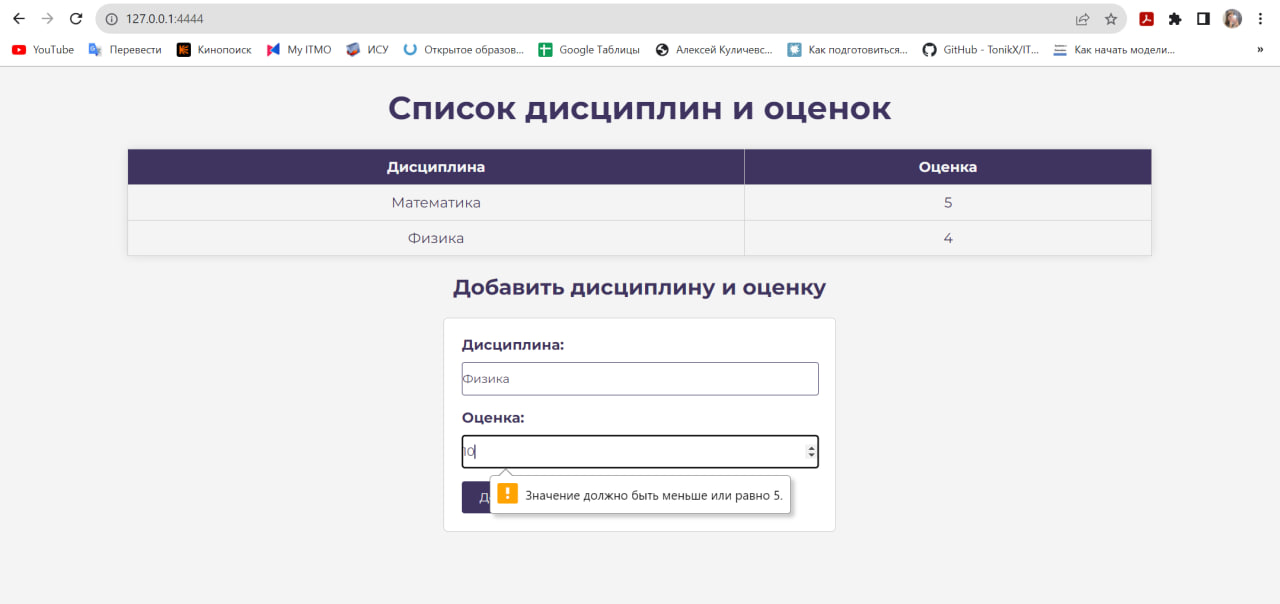
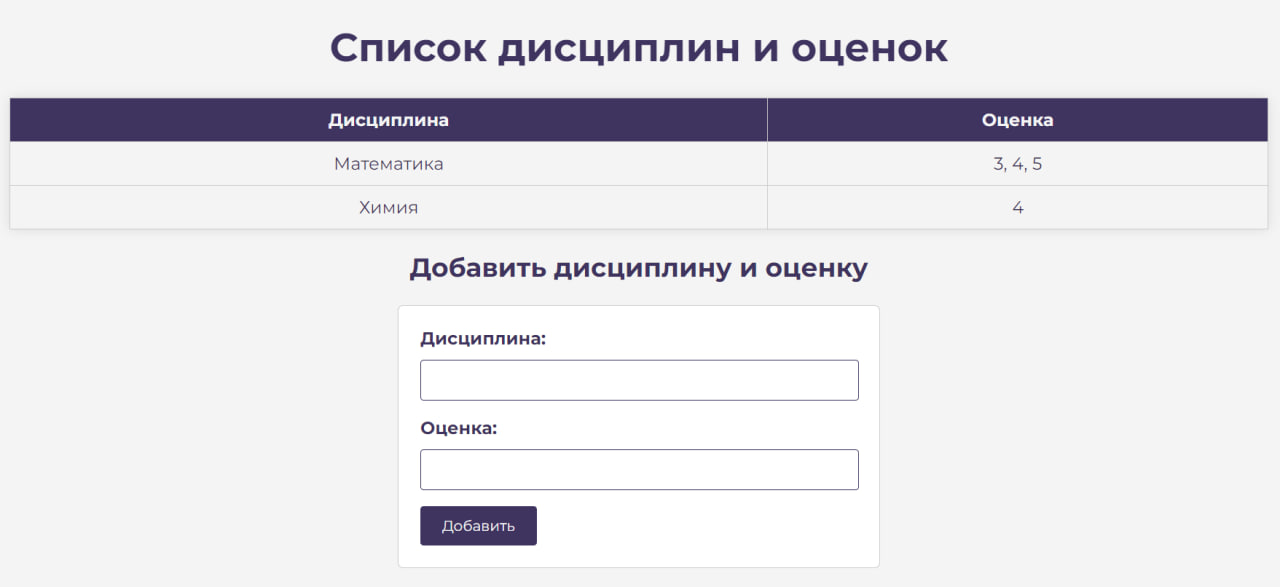
fix: inserting grades

diff --git a/students/k33421/Afonina_Natalia/Lab_1/Task_5/index.html b/students/k33421/Afonina_Natalia/Lab_1/Task_5/index.html
@@ -121,13 +121,30 @@
                 return;
             }
 
-            // Add the discipline and grade to the table
+                // Check if the discipline already exists in the table
+            let existingRow = null;
             const table = document.getElementById('grades-table');
-            const newRow = table.insertRow(-1);
-            const disciplineCell = newRow.insertCell(0);
-            const gradeCell = newRow.insertCell(1);
-            disciplineCell.innerHTML = discipline;
-            gradeCell.innerHTML = grade;
+            for (let i = 0; i < table.rows.length; i++) {
+                const row = table.rows[i];
+                const cell = row.cells[0];
+                if (cell.innerHTML === discipline) {
+                    existingRow = row;
+                    break;
+                }
+            }
+
+            if (existingRow) {
+                // If the discipline already exists, append the grade with a comma
+                const gradeCell = existingRow.cells[1];
+                gradeCell.innerHTML += `, ${grade}`;
+            } else {
+                // If the discipline doesn't exist, add a new row
+                const newRow = table.insertRow(-1);
+                const disciplineCell = newRow.insertCell(0);
+                const gradeCell = newRow.insertCell(1);
+                disciplineCell.innerHTML = discipline;
+                gradeCell.innerHTML = grade;
+            }
 
             // Clear the form inputs
             disciplineInput.value = '';
